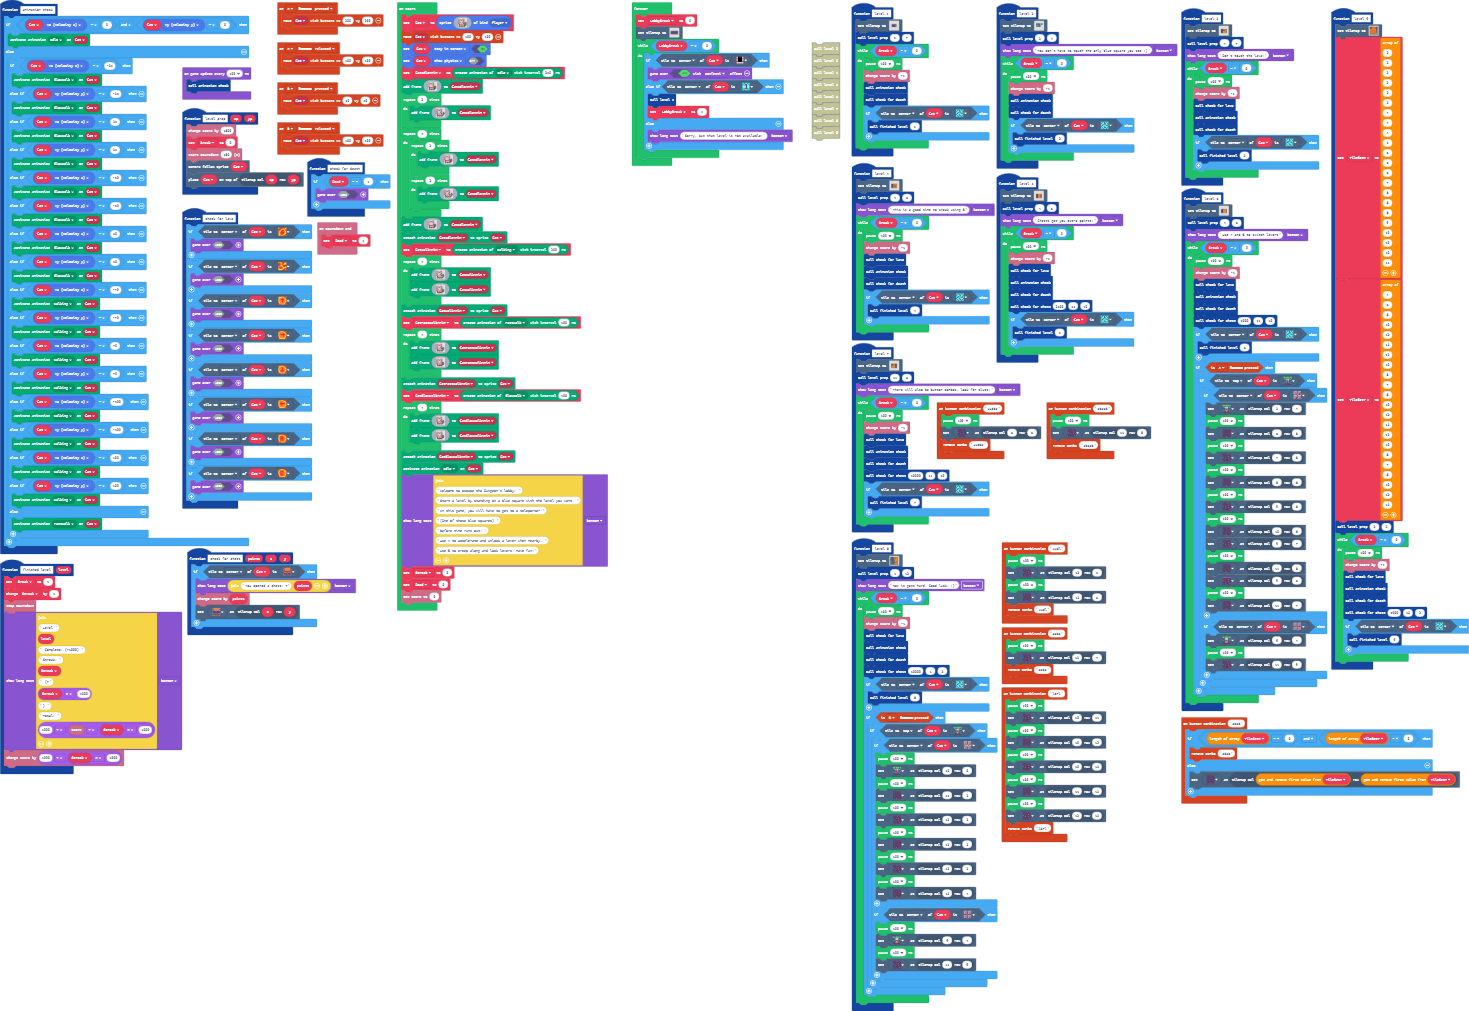
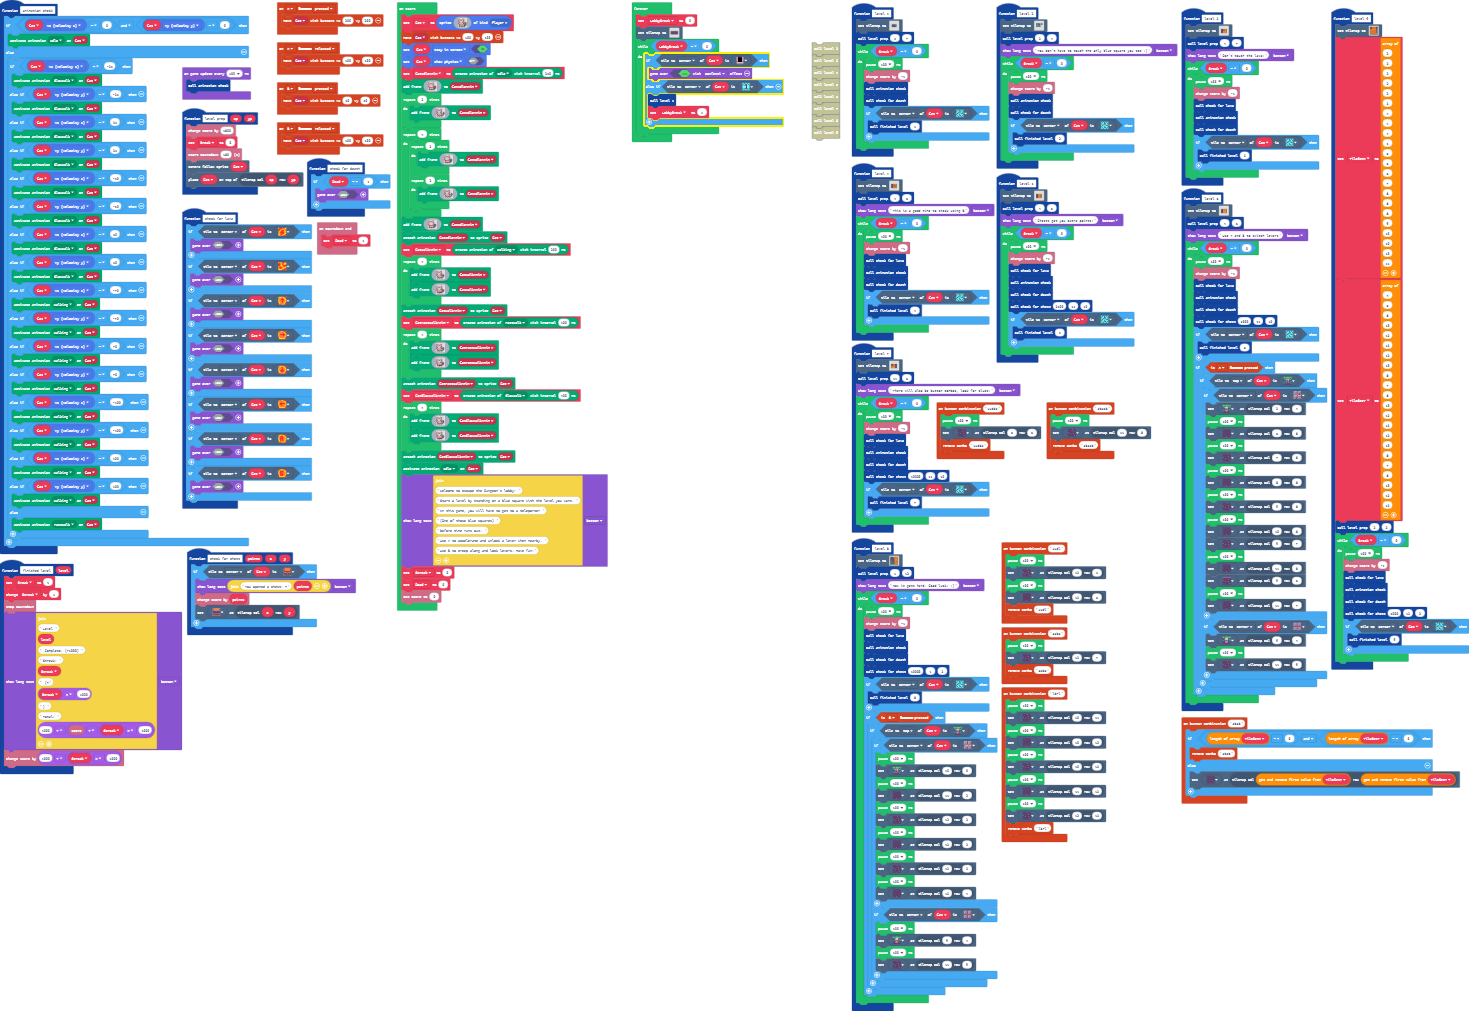
Update main.blocks, main.ts

diff --git a/main.ts b/main.ts
@@ -1245,8 +1245,6 @@ forever(function () {
         } else if (Cat.tileKindAt(TileDirection.Center, myTiles.tile9)) {
             level_1()
             LobbyBreak = 1
-        } else {
-            game.showLongText("Sorry, but that level is not available!", DialogLayout.Bottom)
         }
     }
 })
